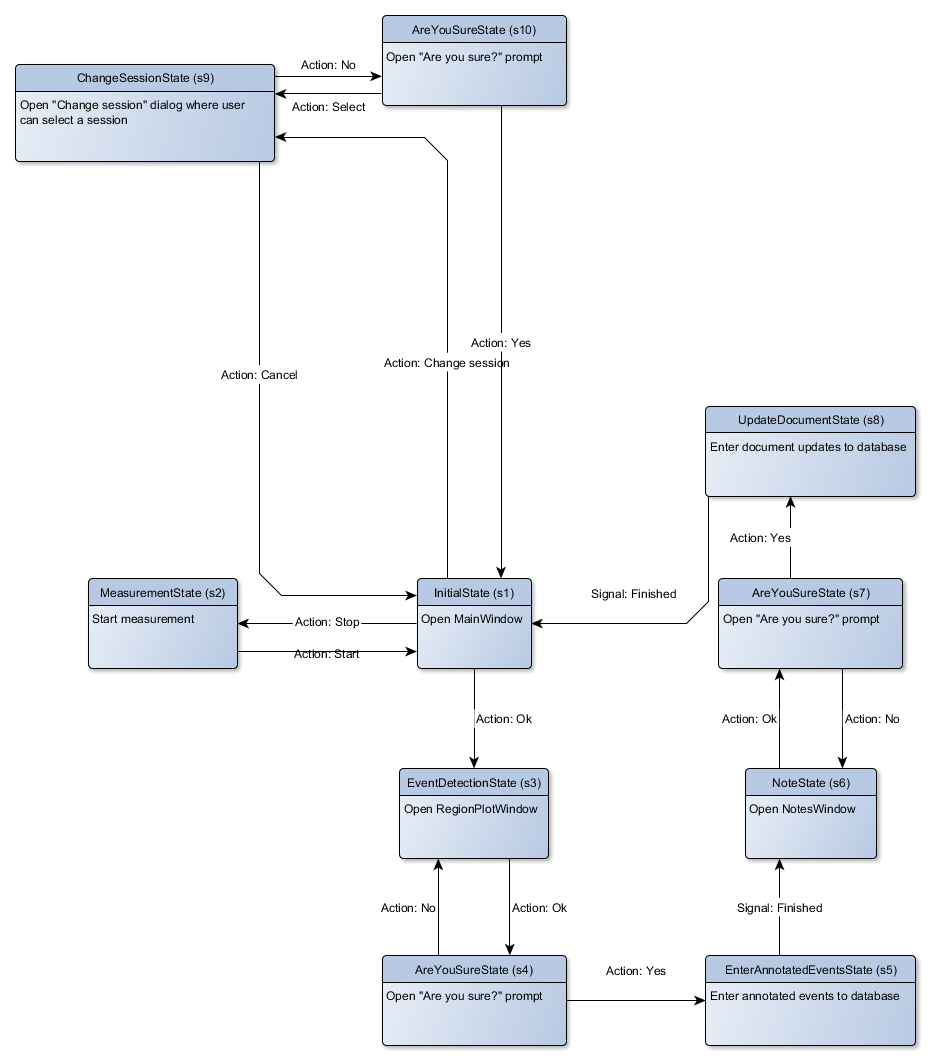
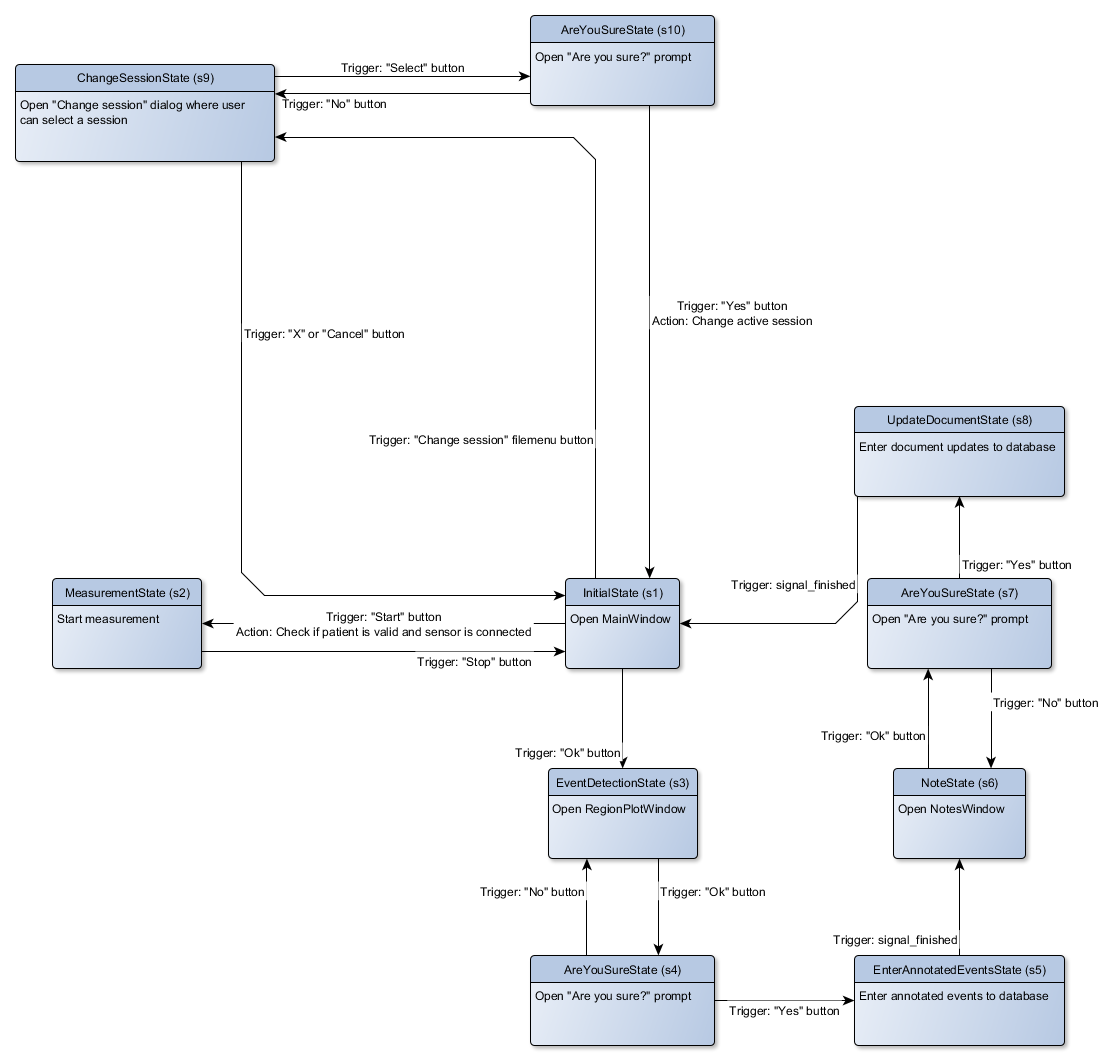
Finalize Change session functionality (#128)
* Add SessionDialog class
* Add tests for Change session functionality
* Update state diagram

diff --git a/cranio/state.py b/cranio/state.py
@@ -1,7 +1,7 @@
 from typing import List
 from PyQt5.QtCore import QStateMachine, QState, QEvent, pyqtSignal, QSignalTransition
-from PyQt5.QtWidgets import QMessageBox, QDialog, QVBoxLayout
-from cranio.app.window import MainWindow, RegionPlotWindow, NotesWindow
+from PyQt5.QtWidgets import QMessageBox
+from cranio.app.window import MainWindow, RegionPlotWindow, NotesWindow, SessionDialog
 from cranio.app.widget import SessionWidget
 from cranio.database import session_scope, Session, Document, AnnotatedEvent, SensorInfo, DistractorType
 from cranio.utils import logger, utc_datetime
@@ -60,20 +60,23 @@ class ChangeSessionState(MyState):
         super().__init__(name=type(self).__name__, parent=parent)
         # Initialize session dialog
         self.session_widget = SessionWidget()
-        self.session_dialog = QDialog()
-        self.session_dialog.main_layout = QVBoxLayout()
-        self.session_dialog.main_layout.addWidget(self.session_widget)
-        self.session_dialog.setLayout(self.session_dialog.main_layout)
+        self.session_dialog = SessionDialog(self.session_widget)
         # Define signals
         self.signal_select = self.session_widget.select_button.clicked
+        self.signal_cancel = self.session_widget.cancel_button.clicked
+        # Close equals to Cancel
+        self.session_dialog.signal_close = self.signal_cancel
 
     def active_session_id(self):
         return self.session_widget.active_session_id()
 
     def onEntry(self, event: QEvent):
         super().onEntry(event)
-        # Update and open dialog
+        # Keep selection, update and open dialog
+        session_id = self.session_widget.active_session_id()
         self.session_widget.update_sessions()
+        if session_id is not None:
+            self.session_widget.select_session(session_id)
         self.session_dialog.show()
 
     def onExit(self, event: QEvent):
@@ -190,7 +193,7 @@ class AreYouSureState(MyState):
         self.no_button = self.dialog.addButton('No', QMessageBox.NoRole)
         self.dialog.setIcon(QMessageBox.Question)
         self.dialog.setWindowTitle('Are you sure?')
-        # signals
+        # Signals
         self.signal_yes = self.yes_button.clicked
         self.signal_no = self.no_button.clicked
 
@@ -201,7 +204,11 @@ class AreYouSureState(MyState):
         except (AttributeError, TypeError):
             # Object has no attribute 'annotated_events' or annotated_events = None
             region_count = None
-        session_info = self.machine().s9.session_widget.active_session_id
+        try:
+            session_info = self.machine().s9.session_widget.active_session_id
+        except AttributeError:
+            # 'NoneType' object has no attribute 's9'
+            session_info = None
         return {'region_count': region_count, 'session_info': session_info}
 
     def onEntry(self, event: QEvent):
@@ -296,11 +303,11 @@ class StartMeasurementTransition(QSignalTransition):
     def eventTest(self, event: QEvent) -> bool:
         if not super().eventTest(event):
             return False
-        # invalid patient
+        # Invalid patient
         if not self.sourceState().machine().active_patient:
             logger.error(f'Invalid patient "{self.sourceState().machine().active_patient}"')
             return False
-        # no sensor connected
+        # No sensor connected
         if self.sourceState().machine().sensor is None:
             logger.error('No sensors connected')
             return False
@@ -355,7 +362,7 @@ class MyStateMachine(QStateMachine):
         self.start_measurement_transition.setTargetState(self.s2)
         self.change_active_session_transition = ChangeActiveSessionTransition(self.s10.signal_yes)
         self.change_active_session_transition.setTargetState(self.s1)
-        self.transition_map = {self.s1: {self.s2: self.start_measurement_transition, self.s3: self.main_window.signal_ok},
+        self.transition_map = {self.s1: {self.s2: self.start_measurement_transition, self.s3: self.main_window.signal_ok, self.s9: self.s1.signal_change_session},
                                self.s2: {self.s1: self.main_window.signal_stop},
                                self.s3: {self.s4: self.s3.signal_ok},
                                self.s4: {self.s3: self.s4.signal_no, self.s5: self.s4.signal_yes},
@@ -363,8 +370,7 @@ class MyStateMachine(QStateMachine):
                                self.s6: {self.s7: self.s6.signal_ok},
                                self.s7: {self.s6: self.s7.signal_no, self.s8: self.s7.signal_yes},
                                self.s8: {self.s1: self.s8.signal_finished},
-                               self.s1: {self.s9: self.s1.signal_change_session},
-                               self.s9: {self.s10: self.s9.signal_select},
+                               self.s9: {self.s10: self.s9.signal_select, self.s1: self.s9.signal_cancel},
                                self.s10: {self.s9: self.s10.signal_no, self.s1: self.change_active_session_transition}}
         for source, targets in self.transition_map.items():
             for target, signal in targets.items():

diff --git a/test/test_state_machine.py b/test/test_state_machine.py
@@ -5,8 +5,7 @@ from PyQt5.QtCore import QEvent
 from cranio.app import app
 from cranio.state import MyStateMachine, AreYouSureState
 from cranio.database import Patient, Document, Measurement, session_scope, insert_time_series_to_database, \
-    AnnotatedEvent, Log, SensorInfo, EventType
-from cranio.producer import ProducerProcess
+    AnnotatedEvent, Log, SensorInfo, EventType, Session
 from cranio.utils import attach_excepthook
 
 wait_sec = 0.5
@@ -52,14 +51,14 @@ def caught_exceptions():
 
 
 def test_start_measurement_inserts_document_and_sensor_info_to_database(machine):
-    # start measurement
+    # Start measurement
     machine.main_window.measurement_widget.start_button.clicked.emit()
     app.processEvents()
     assert machine.document is not None
     with session_scope() as s:
         document = s.query(Document).first()
         assert document.document_id == machine.document.document_id
-        # verify patient, distractor and operator
+        # Verify patient, distractor and operator
         assert document.patient_id == machine.active_patient
         assert document.distractor_number == machine.active_distractor
         assert document.operator == machine.active_operator
@@ -214,3 +213,47 @@ def test_event_detection_state_default_region_count_equals_turns_in_full_turn(da
     state.onEntry(event)
     app.processEvents()
     assert state.region_count() == int(sensor_info.turns_in_full_turn)
+
+
+def test_state_machine_transitions_to_and_from_change_session_state(machine):
+    # Add extra session to switch to
+    with session_scope() as s:
+        s.add(Session())
+    assert machine.s1.signal_change_session is not None
+    # Trigger transition from s1 to s9 (ChangeSessionState)
+    machine.s1.signal_change_session.emit()
+    assert machine.in_state(machine.s9)
+    # Select session that is not the instance
+    assert len(machine.s9.session_widget.sessions) == machine.s9.session_widget.session_count() == 2
+    other_sessions = [s for s in machine.s9.session_widget.sessions
+                      if s.session_id != Session.get_instance().session_id]
+    assert len(other_sessions) == 1
+    active_session_id = other_sessions[0].session_id
+    machine.s9.session_widget.select_session(active_session_id)
+    # Click Select (Trigger transition from s9 to s10)
+    machine.s9.signal_select.emit()
+    assert machine.in_state(machine.s10)
+    # Click No on "Are you sure?" prompt (Trigger transition from s10 back to s9)
+    machine.s10.signal_no.emit()
+    assert machine.in_state(machine.s9)
+    # Click Cancel to go back to s1
+    machine.s9.signal_cancel.emit()
+    assert machine.in_state(machine.s1)
+    # Trigger transition back to s9 (ChangeSessionState)
+    machine.s1.signal_change_session.emit()
+    assert machine.in_state(machine.s9)
+    # Click Select to go to s10
+    machine.s9.signal_select.emit()
+    # Click Yes on "Are you sure?" prompt (Trigger transition from s10 to s1)
+    machine.s10.signal_yes.emit()
+    assert machine.in_state(machine.s1)
+    # Verify that session has changed
+    assert Session.get_instance().session_id == active_session_id
+
+
+def test_state_machine_change_session_widget_clicking_x_in_top_right_equals_to_cancel_button(machine):
+    # Trigger transition from s1 to s9 (ChangeSessionState)
+    machine.s1.signal_change_session.emit()
+    assert machine.in_state(machine.s9)
+    machine.s9.session_dialog.close()
+    assert machine.in_state(machine.s1)

diff --git a/cranio/app/window.py b/cranio/app/window.py
@@ -2,13 +2,13 @@
 .. todo:: To be documented.
 """
 from typing import List
-from PyQt5.QtCore import Qt
+from PyQt5.QtCore import Qt, pyqtSignal
 from PyQt5.QtWidgets import QAction, QMainWindow, QWidget, QDialog, QVBoxLayout, QPushButton
 from cranio.producer import ProducerProcess, create_dummy_sensor
 from cranio.imada import Imada
 from cranio.database import session_scope, Patient, AnnotatedEvent
 from cranio.app.widget import PatientWidget, MetaDataWidget, MeasurementWidget, RegionPlotWidget, EditWidget, \
-    DoubleSpinEditWidget
+    DoubleSpinEditWidget, SessionWidget
 from cranio.utils import logger
 
 
@@ -122,6 +122,23 @@ class NotesWindow(QDialog):
     @notes.setter
     def notes(self, value: str):
         self.notes_widget.value = value
+
+
+class SessionDialog(QDialog):
+    signal_close = pyqtSignal()
+
+    def __init__(self, session_widget: SessionWidget):
+        super().__init__()
+        self.session_widget = session_widget
+        self.main_layout = QVBoxLayout()
+        self.main_layout.addWidget(self.session_widget)
+        self.main_layout.addWidget(self.session_widget)
+        self.setLayout(self.main_layout)
+
+    def closeEvent(self, event):
+        """ User has clicked X on the dialog or QWidget.close() has been called programmatically. """
+        super().closeEvent(event)
+        self.signal_close.emit()
 
 
 class MainWindow(QMainWindow):

diff --git a/test/test_session_widget.py b/test/test_session_widget.py
@@ -1,0 +1,26 @@
+import pytest
+from cranio.database import session_scope, Session
+from cranio.app.widget import SessionWidget
+
+
+@pytest.fixture
+def session_widget(database_fixture):
+    # Two sessions in the database: one initialized by database_fixture and other initialized here
+    with session_scope() as s:
+        s.add(Session())
+    session_widget = SessionWidget()
+    yield session_widget
+
+
+def test_session_widget_contains_all_sessions_from_the_database(session_widget):
+    assert session_widget.session_count() == 2
+    assert len(session_widget.sessions) == 2
+
+
+def test_session_widget_select_and_click_ok_changes_active_session(session_widget):
+    with session_scope() as s:
+        session = s.query(Session).filter(Session.session_id != Session.get_instance().session_id).first()
+    session_widget.select_session(session_id=session.session_id)
+    assert session_widget.active_session_id() == session.session_id
+
+

diff --git a/cranio/app/widget.py b/cranio/app/widget.py
@@ -495,7 +495,12 @@ class SessionWidget(QWidget):
         return self.table_widget.rowCount()
 
     def active_session_id(self) -> str:
-        session_id = self.table_widget.item(self.table_widget.currentRow(), 0).text()
+        """ Return session_id of active (selected) session. If no session is selected, None is returned. """
+        try:
+            session_id = self.table_widget.item(self.table_widget.currentRow(), 0).text()
+        except AttributeError:
+            # AttributeError: 'NoneType' object has no attribute 'text'
+            session_id = None
         logger.debug(f'Active session_id = {session_id}')
         return session_id
 
